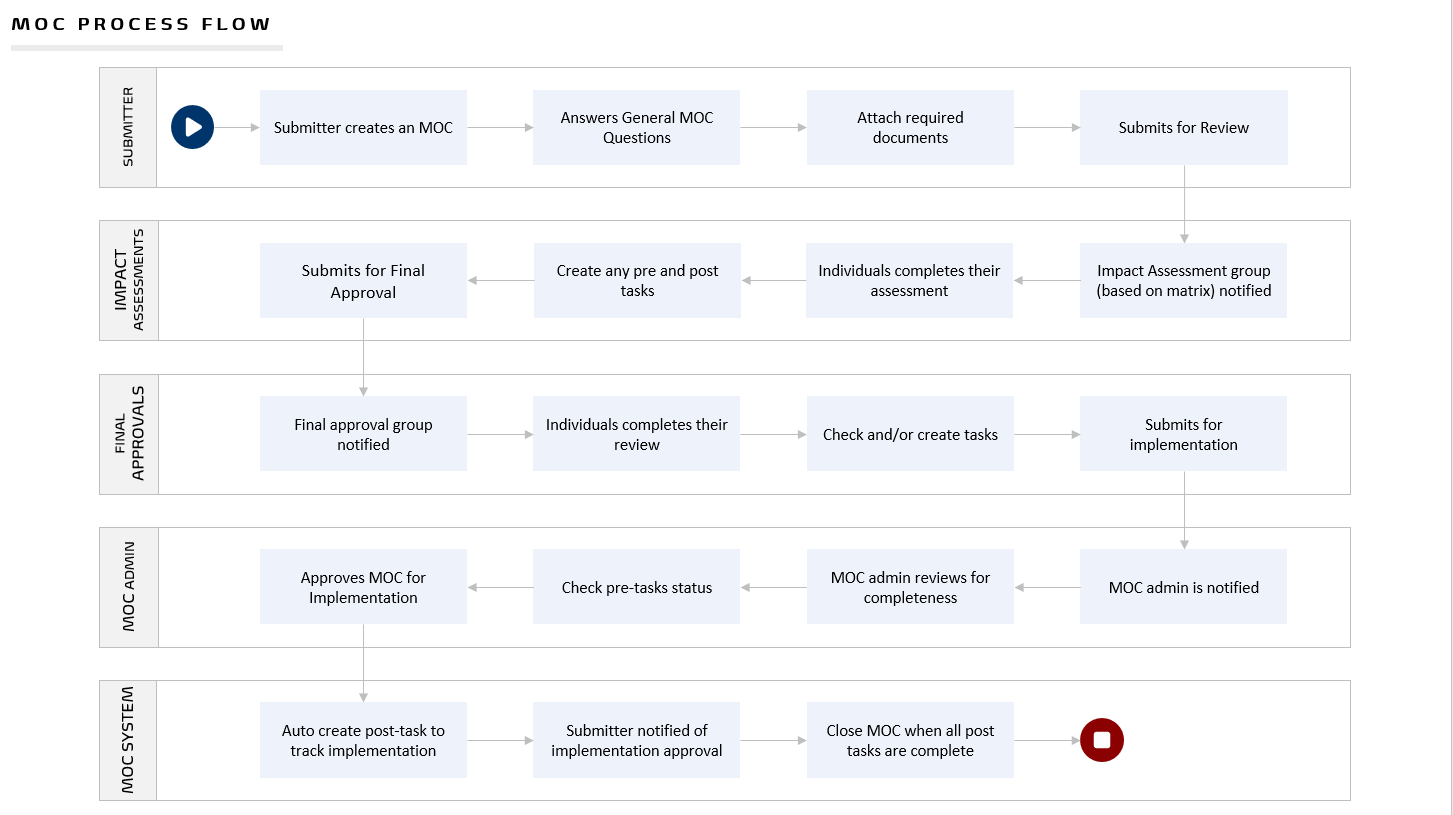
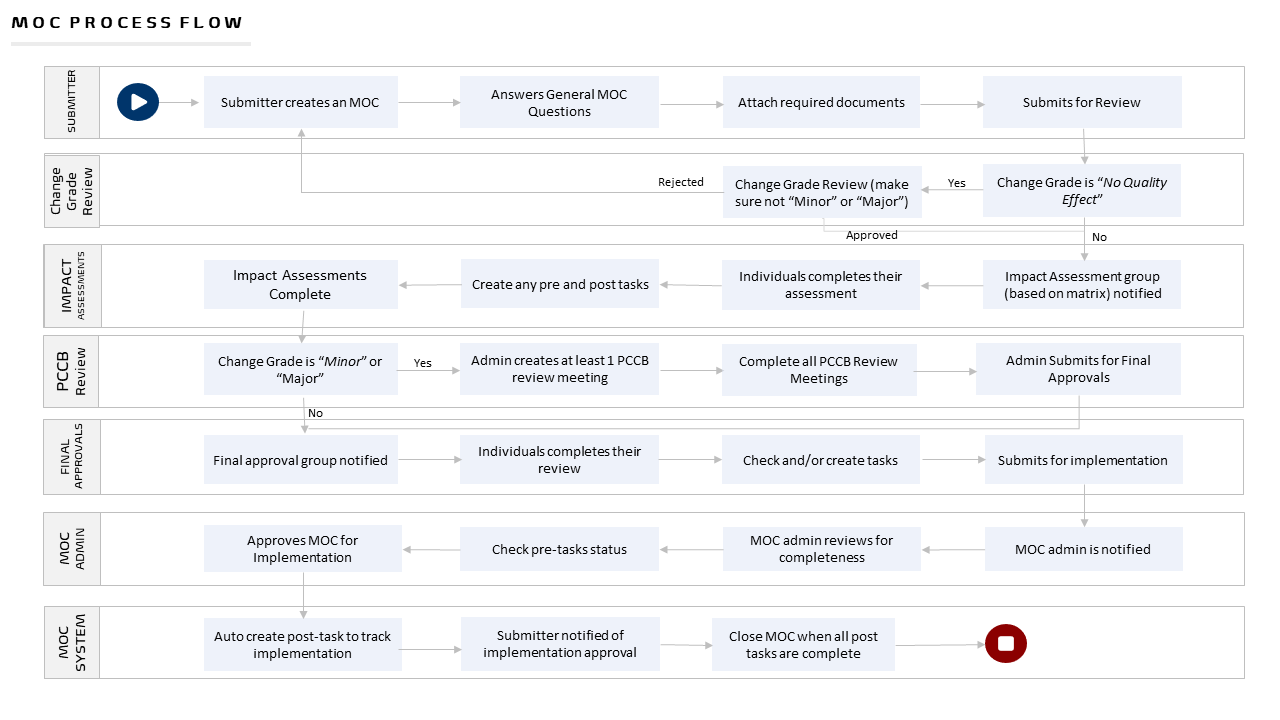
MJWII-MOC-Phase 3 Completion

diff --git a/Management of Change/Controllers/ChangeRequestsController.cs b/Management of Change/Controllers/ChangeRequestsController.cs
@@ -5,8 +5,6 @@ using Management_of_Change.ViewModels;
 using Microsoft.AspNetCore.Mvc;
 using Microsoft.AspNetCore.Mvc.Rendering;
 using Microsoft.EntityFrameworkCore;
-//using Management_of_Change.Migrations;
-// 11	"ClassificationReview"	"Submitted for Classification Review"	false	"10"	"MJWilson"	"2025-04-22 00:00:00"				
 
 namespace Management_of_Change.Controllers
 {
@@ -61,14 +59,14 @@ namespace Management_of_Change.Controllers
             {
                 case null:
                     ViewBag.PrevStatusFilter = "AllCurrent";
-                    requests = requests.Where(m => m.Change_Status == "Draft" || m.Change_Status == "ClassificationReview" || m.Change_Status == "ChangeGradeReview" || m.Change_Status == "ImpactAssessmentReview" || m.Change_Status == "FinalApprovals" || m.Change_Status == "PccbReview" || m.Change_Status == "Implementation" || m.Change_Status == "Closeout").ToList();
+                    requests = requests.Where(m => m.Change_Status == "Draft" || m.Change_Status == "ClassificationReview" || m.Change_Status == "ChangeGradeReview" || m.Change_Status == "ImpactAssessmentReview" || m.Change_Status == "FinalApprovals" || m.Change_Status == "PccbReview" || m.Change_Status == "Implementation" || m.Change_Status == "RampUp" || m.Change_Status == "Closeout").ToList();
                     break;
                 case "All":
                     ViewBag.PrevStatusFilter = "All";
                     break;
                 case "AllCurrent":
                     ViewBag.PrevStatusFilter = "AllCurrent";
-                    requests = requests.Where(m => m.Change_Status == "Draft" || m.Change_Status == "ClassificationReview" || m.Change_Status == "ChangeGradeReview" || m.Change_Status == "ImpactAssessmentReview" || m.Change_Status == "FinalApprovals" || m.Change_Status == "PccbReview" || m.Change_Status == "Implementation" || m.Change_Status == "Closeout").ToList();
+                    requests = requests.Where(m => m.Change_Status == "Draft" || m.Change_Status == "ClassificationReview" || m.Change_Status == "ChangeGradeReview" || m.Change_Status == "ImpactAssessmentReview" || m.Change_Status == "FinalApprovals" || m.Change_Status == "PccbReview" || m.Change_Status == "Implementation" || m.Change_Status == "RampUp" || m.Change_Status == "Closeout").ToList();
                     break;
                 default:
                     requests = requests.Where(m => m.Change_Status == statusFilter).ToList();
@@ -444,6 +442,7 @@ namespace Management_of_Change.Controllers
             changeRequestViewModel.Tab5Disabled = countFA > 0 || (changeRequestViewModel.ChangeRequest.Change_Status == "Draft" || changeRequestViewModel.ChangeRequest.Change_Status == "ClassificationReview" || changeRequestViewModel.ChangeRequest.Change_Status == "ChangeGradeReview" || changeRequestViewModel.ChangeRequest.Change_Status == "ImpactAssessmentReview" || changeRequestViewModel.ChangeRequest.Change_Status == "FinalApprovals") ? "disabled" : "";
 
             // disable Ramp-Up if Implementation Stage is not complete...
+            changeRequestViewModel.TabRampUpDisplayed = changeLevel?.PccbReviewRequired == true ? "Yes" : "No";
             changeRequestViewModel.TabRampUpDisabled = changeRequest.Change_Status != "RampUp" && changeRequest.Change_Status != "Closeout" && changeRequest.Change_Status != "Closed" ? "disabled" : "";
 
             // disable tab6 (Closeout/Complete) if change request is not in status of "Closeout" or "Closed"
@@ -2115,28 +2114,59 @@ namespace Management_of_Change.Controllers
             if (changeRequest == null)
                 return NotFound();
 
-            changeRequest.Change_Status = "RampUp";
-            changeRequest.Change_Status_Description = await _context.ChangeStatus.Where(m => m.Status == "RampUp").Select(m => m.Description).FirstOrDefaultAsync();
-            changeRequest.ModifiedUser = _username;
-            changeRequest.ModifiedDate = DateTime.Now;
-            changeRequest.Implementation_Approval_Date = DateTime.Now;
-            changeRequest.Implementation_Username = _username;
-            _context.Update(changeRequest);
-            await _context.SaveChangesAsync();
+            ////////////////////////////////////////////////////////////////////////////////////////////////////////////////////////////
+            /// See if change request needs to go to Ramp-Up Stage OR Closeout Stage Next............
+            ////////////////////////////////////////////////////////////////////////////////////////////////////////////////////////////
+            ChangeLevel changeGrade = await _context.ChangeLevel.Where(m => m.Level == changeRequest.Change_Level).FirstOrDefaultAsync();
+            if (changeGrade == null) return NotFound();
 
-            // Email all admins with 'Approver' rights that this Change Request has been submitted for Ramp-Up....
-            var adminApproverList = await _context.Administrators.Where(m => m.Approver == true).ToListAsync();
-            __mst_employee admin = new __mst_employee();
             string subject;
             string body;
-            foreach (var record in adminApproverList)
+            if (changeGrade.PccbReviewRequired == true)
             {
-                admin = await _context.__mst_employee.Where(m => m.onpremisessamaccountname.ToLower() == record.Username.ToLower()).FirstOrDefaultAsync();
+                changeRequest.Change_Status = "RampUp";
+                changeRequest.Change_Status_Description = await _context.ChangeStatus.Where(m => m.Status == changeRequest.Change_Status).Select(m => m.Description).FirstOrDefaultAsync();
+                changeRequest.ModifiedUser = _username;
+                changeRequest.ModifiedDate = DateTime.Now;
+                changeRequest.Implementation_Approval_Date = DateTime.Now;
+                changeRequest.Implementation_Username = _username;
+                _context.Update(changeRequest);
+                await _context.SaveChangesAsync();
+
+                // Email all admins with 'Approver' rights that this Change Request has been submitted for Ramp-Up....
+                var adminApproverList = await _context.Administrators.Where(m => m.Approver == true).ToListAsync();
+                __mst_employee admin = new __mst_employee();
                 subject = @"Management of Change (MoC) - Submitted for Ramp-Up";
                 body = @"Change Request has been submitted for Ramp-Up. Please follow link below and review/respond to the following Management of Change request. <br/><br/><strong>Change Request: </strong>" + changeRequest.MOC_Number + @"<br/><strong>MoC Title: </strong>" + changeRequest.Title_Change_Description + "<br/><strong>Link: <a href=\"" + Initialization.WebsiteUrl + "\" target=\"blank\" >MoC System</a></strong><br/><br/>";
+                foreach (var record in adminApproverList)
+                {
+                    admin = await _context.__mst_employee.Where(m => m.onpremisessamaccountname.ToLower() == record.Username.ToLower()).FirstOrDefaultAsync();
+                    Initialization.EmailProviderSmtp.SendMessage(subject, body, admin?.mail, null, null, changeRequest.Priority);
+                    AddEmailHistory(changeRequest.Priority, subject, body, admin?.displayname, record.Username, admin?.mail, changeRequest.Id, null, null, null, "ChangeRequest", changeRequest.Change_Status, DateTime.Now, _username);
+                }
+            }
+            else  // Skip Ramp-Up Stage and go directly to Closeout Stage
+            {
+                changeRequest.Change_Status = "Closeout";
+                changeRequest.Change_Status_Description = await _context.ChangeStatus.Where(m => m.Status == changeRequest.Change_Status).Select(m => m.Description).FirstOrDefaultAsync();
+                changeRequest.ModifiedUser = _username;
+                changeRequest.ModifiedDate = DateTime.Now;
+                changeRequest.Implementation_Approval_Date = DateTime.Now;
+                changeRequest.Implementation_Username = _username;
+                _context.Update(changeRequest);
+                await _context.SaveChangesAsync();
 
-                Initialization.EmailProviderSmtp.SendMessage(subject, body, admin?.mail, null, null, changeRequest.Priority);
-                AddEmailHistory(changeRequest.Priority, subject, body, admin?.displayname, record.Username, admin?.mail, changeRequest.Id, null, null, null, "ChangeRequest", changeRequest.Change_Status, DateTime.Now, _username);
+                // Email all admins with 'Approver' rights that this Change Request has been submitted for Implementation....
+                var adminApproverList = await _context.Administrators.Where(m => m.Approver == true).ToListAsync();
+                __mst_employee admin = new __mst_employee();
+                subject = @"Management of Change (MoC) - Submitted for Closeout";
+                body = @"Change Request has been submitted for Closeout. All post-implementation tasks will need to be completed to move forward. Please follow link below and review/respond to the following Management of Change request. <br/><br/><strong>Change Request: </strong>" + changeRequest.MOC_Number + @"<br/><strong>MoC Title: </strong>" + changeRequest.Title_Change_Description + "<br/><strong>Link: <a href=\"" + Initialization.WebsiteUrl + "\" target=\"blank\" >MoC System</a></strong><br/><br/>";
+                foreach (var record in adminApproverList)
+                {
+                    admin = await _context.__mst_employee.Where(m => m.onpremisessamaccountname.ToLower() == record.Username.ToLower()).FirstOrDefaultAsync();
+                    Initialization.EmailProviderSmtp.SendMessage(subject, body, admin?.mail, null, null, changeRequest.Priority);
+                    AddEmailHistory(changeRequest.Priority, subject, body, admin?.displayname, record.Username, admin?.mail, changeRequest.Id, null, null, null, "ChangeRequest", changeRequest.Change_Status, DateTime.Now, _username);
+                }
             }
 
             // Email all employees that MoC Writer wants notified that this has been approved for implementation so they are aware of the change....
@@ -2190,7 +2220,10 @@ namespace Management_of_Change.Controllers
                 AddEmailHistory(task.Priority, subject, body, toPerson?.displayname, toPerson?.onpremisessamaccountname, toPerson?.mail, task.ChangeRequestId, null, null, task.Id, "Task", task.Status, DateTime.Now, task.CreatedUser);
             }
 
-            return RedirectToAction("Details", new { id = changeRequest.Id, tab = "RampUp" });
+            if (changeGrade.PccbReviewRequired == true)
+                return RedirectToAction("Details", new { id = changeRequest.Id, tab = "RampUp" });
+            else
+                return RedirectToAction("Details", new { id = changeRequest.Id, tab = "CloseoutComplete" });             
         }
 
         // This closes out 'Implementation' stage and moves to 'Closeout/Complete' stage

diff --git a/Management of Change/ViewModels/ChangeRequestViewModel.cs b/Management of Change/ViewModels/ChangeRequestViewModel.cs
@@ -23,6 +23,7 @@ namespace Management_of_Change.ViewModels
         public string? TabClassificationReviewDisplayed { get; set; }
         public string? TabChangeGradeReviewDisplayed { get; set; }
         public string? TabPccbReviewDisplayed { get; set; }
+        public string? TabRampUpDisplayed { get; set; }
         public string? TabActiveDetail { get; set; }
         public string? TabActiveGeneralMocQuestions { get; set; }
         public string? TabActiveClassificationReview {  get; set; }

diff --git a/Management of Change/Data/Management_of_ChangeContext.cs b/Management of Change/Data/Management_of_ChangeContext.cs
@@ -1,9 +1,5 @@
-using System;
-using System.Collections.Generic;
-using System.Linq;
-using System.Threading.Tasks;
+using Management_of_Change.Models;
 using Microsoft.EntityFrameworkCore;
-using Management_of_Change.Models;
 
 namespace Management_of_Change.Data
 {

diff --git a/Management of Change/Models/ChangeRequest.cs b/Management of Change/Models/ChangeRequest.cs
@@ -1,7 +1,4 @@
 using System.ComponentModel.DataAnnotations;
-using System.ComponentModel.DataAnnotations.Schema;
-using System.Diagnostics.Contracts;
-using System.Security.AccessControl;
 
 namespace Management_of_Change.Models
 {
